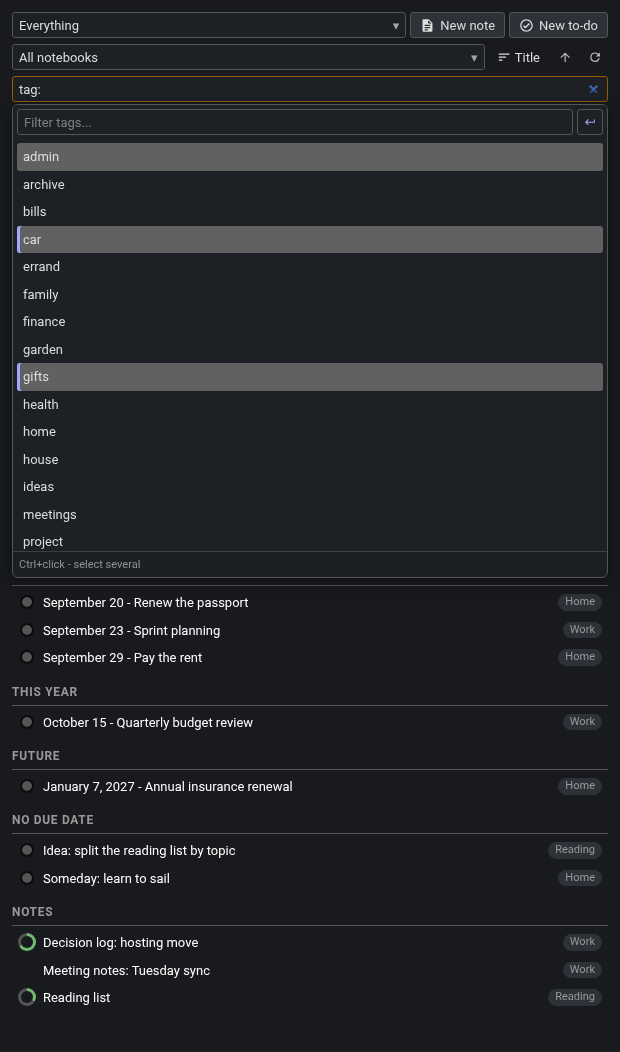
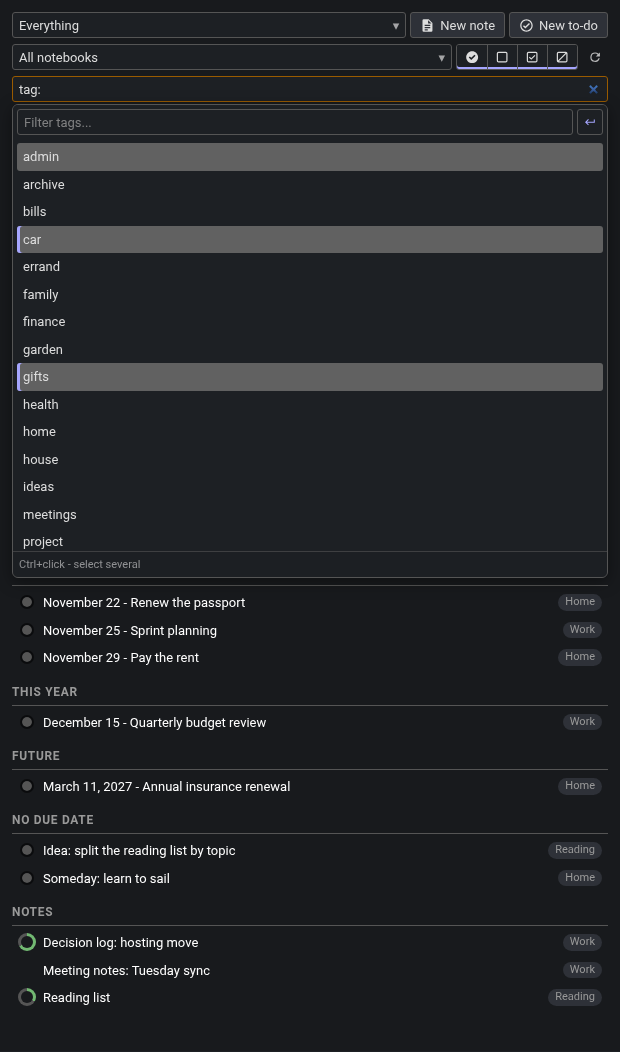
docs: README screenshots retaken for the 2.10 header
hero-panel, themes, search-autocomplete, row-menu-multi, month-calendar
and week-planner regenerated by the showcase spec (SHOWCASE=1, staged
clock Wednesday 11 November 2026) so the second header row shows the
notebook picker, the four quick-filter buttons all pressed and the sync
button where the sort block used to be. alarm-picker.png is left as it
was: the header is not in its frame and only the staged dates differ.

The row-menu shot now carries the Quick edit… entry its comment asks
for, so the two "image predates" sentences (2.10 on the hero, 2.8 on the
row menu) are dropped from the README comments. The month and week shots
now end with a Notes section under No Due Date: the Month and Week
profiles are created from the view on screen, so they inherit the
Everything profile's notes.

diff --git a/README.md b/README.md
@@ -25,9 +25,7 @@ Cockpit is a single [Joplin](https://joplinapp.org) panel built to replace the n
      "Grayed out". Capture midweek, early in the month and not in December: a period whose remaining
      days are already covered by the groups above it is replaced by the next one, and the headings then
      read Next Week / Next Month / Next Year - and in December the year slot is ALWAYS Next Year, whose
-     slice runs to the next December 31st, so nothing is left over for a Future group at all.
-     The image in the repo predates 2.10 and still shows the sort picker and its arrow where the
-     quick filters now sit; the caption holds for both, so only the image needs retaking. -->
+     slice runs to the next December 31st, so nothing is left over for a Future group at all. -->
 
 One screen gives you the whole picture. A profile is a whole saved view — its format, filters, search and sorting — so switching profiles switches everything in one step. Narrow the list by notebook, or by anything Joplin's own search understands. Reschedule by dragging a to-do onto a day, or open the date picker for an exact time. The same file runs on Android.
 
@@ -160,9 +158,7 @@ Right-clicking a row opens Cockpit's own menu: Open, Quick edit…, Switch betwe
      panel so nothing is clipped. The menu must legibly read: Open (greyed), Quick edit… (greyed),
      "Switch type of 3 items", "Tags for 3 notes...", "Move 3 to notebook...", "Duplicate 3 notes",
      "Copy 3 Markdown links", "Copy 3 note IDs", "Delete 3 notes" (in red). The three selected rows
-     must be visibly highlighted behind it. Joplin Dark + Match Joplin. The image in the repo
-     predates 2.8 and has no Quick edit… entry; the caption holds for both, so only the image
-     needs retaking. -->
+     must be visibly highlighted behind it. Joplin Dark + Match Joplin. -->
 
 Right-click inside a multi-row selection and every capable entry is retitled with the count — "Delete 6 notes", "Switch type of 3 items", "Copy 4 Markdown links" — so a mistaken batch is visible before the click; the single-only Open and Quick edit… grey out rather than disappearing. Dragging a mixed selection onto a date, dropping it between rows or setting an alarm on it applies to the to-dos in it, in selection order; the notes ride along and are left out of anything time-based.
 
